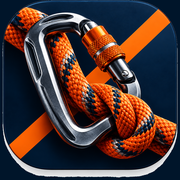
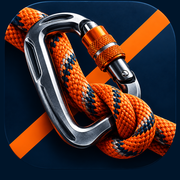
fix: ホーム画面アイコンの白い縁を除去
実機で白い縁が出ていた。原因は素材のドロップシャドウが残っていたこと。

PIL の ImageDraw.floodfill の thresh は「RGB3チャンネルの差の合計」で、
白(255,255,255) と 影(199,200,201) の差は165ある。thresh=60 では影に届かず、
バッジの外周に明るい灰色のリングが残っていた。

検証も誤っていた。「235以上を白」と数えていたため影(199〜233)を拾えず、
白1.7%と報告していたが、実際は外周がほぼ全部明るいままだった。

floodfill をやめ、明るさ min(R,G,B)>90 のマスクを行・列の走査で作って
地色で塗る方式に変更。縁のアンチエイリアスも5px内側まで広げて潰す。
検証は min(R,G,B)>120 を「地色でない明るい画素」として外周4pxで数える。

  素材そのまま 外周の明るい画素 100.00%
  修正後        0.00%

絵そのものには手を加えていない。

diff --git a/tools/build_icons.py b/tools/build_icons.py
@@ -3,15 +3,21 @@
 
    素材は sources/icon/（ChatGPTで作成）。デザインは変更しない。
 
-   ただし素材は「白地の上に角丸バッジ」が焼き込まれている。
-   iOS はホーム画面アイコンに自前の角丸マスクを掛けるため、そのまま使うと
-   マスクの内側に白が残り、白い枠が付いたように見える（実測17.1%）。
-   そこで iOS用（apple-touch-icon）と Android のマスカブル用だけ、
-   原本からバッジ部分を切り出して全面化する。絵そのものには手を加えない。
+   素材は「白地の上に角丸バッジ＋ドロップシャドウ」が焼き込まれている。
+   iOS はホーム画面アイコンに自前の角丸マスクを掛けるので、そのまま使うと
+   バッジの外側（白と影）がマスクの内側に残り、白い縁として見える。
 
-     元のまま            iOSマスク内の白 17.1%
-     バッジを切り出し     → 7.9%
-     外側の白を地色で埋め → 1.9%
+   対策：バッジの外側を地色で塗りつぶし、バッジの外接矩形で切り出して全面化する。
+   絵そのものには手を加えない。
+
+   実装の注意（一度踏んだ）：
+     PIL の ImageDraw.floodfill の thresh は「RGB3チャンネルの差の合計」。
+     白(255,255,255) と 影(199,200,201) の差は合計165ある。
+     thresh=60 では影に届かず、影のリングが残ったまま白い縁になった。
+     そのため floodfill はやめ、明るさのマスクを自分で作って塗る。
+
+     検証も「235以上を白とみなす」では影(199〜233)を数えられない。
+     min(R,G,B) > 120 を「地色でない明るい画素」として数える。
 
    実行： python tools/build_icons.py
 """
@@ -20,7 +26,8 @@ import os
 import shutil
 import sys
 
-from PIL import Image, ImageChops, ImageDraw
+import numpy as np
+from PIL import Image, ImageChops
 
 sys.stdout = io.TextIOWrapper(sys.stdout.buffer, encoding="utf-8")
 
@@ -34,66 +41,94 @@ COPY = ["favicon-16.png", "favicon-32.png", "icon-192.png", "icon-512.png"]
 # 全面化して作るもの（OSが自前でマスクを掛ける用途）
 FULLBLEED = [("apple-touch-icon.png", 180), ("icon-512-maskable.png", 512)]
 
+LIGHT = 90      # min(R,G,B) がこれを超えたら「背景か影」とみなす
+GROW = 5        # 塗る範囲をバッジ側へ広げる画素数（縁のアンチエイリアスを消す）
+
+
+def exterior_mask(arr):
+    """バッジの外側（白＋影）を True にしたマスクを返す。
+
+    バッジは角丸正方形で凸なので、各行・各列を両端から走査して
+    明るい画素が続く区間を外側とみなせば、穴を拾わずに正確に取れる。
+    """
+    light = arr.min(axis=2) > LIGHT
+    h, w = light.shape
+    ext = np.zeros_like(light)
+
+    for y in range(h):
+        row = light[y]
+        i = 0
+        while i < w and row[i]:
+            ext[y, i] = True; i += 1
+        i = w - 1
+        while i >= 0 and row[i]:
+            ext[y, i] = True; i -= 1
+
+    for x in range(w):
+        col = light[:, x]
+        i = 0
+        while i < h and col[i]:
+            ext[i, x] = True; i += 1
+        i = h - 1
+        while i >= 0 and col[i]:
+            ext[i, x] = True; i -= 1
+
+    # 縁のアンチエイリアス（中間色）も食べるよう、内側へ少し広げる
+    for _ in range(GROW):
+        g = ext.copy()
+        g[1:, :] |= ext[:-1, :]
+        g[:-1, :] |= ext[1:, :]
+        g[:, 1:] |= ext[:, :-1]
+        g[:, :-1] |= ext[:, 1:]
+        ext = g
+    return ext
+
 
 def badge_fullbleed(path):
-    """原本から白い余白を取り除き、外周をバッジの地色で埋めた正方形を返す"""
+    """白と影を地色で潰し、バッジの外接矩形で正方形に切り出す"""
     im = Image.open(path).convert("RGB")
+    arr = np.array(im)
 
-    # 白でない領域の外接矩形を取り、正方形に整えて切り出す
-    bg = Image.new("RGB", im.size, (255, 255, 255))
-    diff = ImageChops.difference(im, bg).convert("L").point(lambda v: 255 if v > 12 else 0)
-    x0, y0, x1, y1 = diff.getbbox()
+    # 地色はバッジ左端の内側から拾う
+    bb = ImageChops.difference(im, Image.new("RGB", im.size, (255, 255, 255)))
+    x0, y0, x1, y1 = bb.convert("L").point(lambda v: 255 if v > 12 else 0).getbbox()
+    navy = arr[(y0 + y1) // 2, x0 + int((x1 - x0) * 0.04)].copy()
+
+    arr[exterior_mask(arr)] = navy
+    im = Image.fromarray(arr)
+
     cx, cy = (x0 + x1) // 2, (y0 + y1) // 2
     half = max(x1 - x0, y1 - y0) // 2
-    crop = im.crop((cx - half, cy - half, cx + half, cy + half))
-
-    # 角丸の外に残る白を、バッジの地色で塗りつぶす。
-    # 四隅から流し込むのでバッジの縁で止まり、内側の金属色は残る。
-    s = crop.size[0]
-    navy = crop.getpixel((int(s * 0.06), int(s * 0.5)))
-    for pt in [(0, 0), (s - 1, 0), (0, s - 1), (s - 1, s - 1)]:
-        ImageDraw.floodfill(crop, pt, navy, thresh=60)
-    return crop
+    return im.crop((cx - half, cy - half, cx + half, cy + half)), tuple(int(v) for v in navy)
 
 
-def white_ratio_under_ios_mask(im):
-    """iOSの角丸マスク（22.37%）を掛けたとき、内側に残る白の割合"""
-    s = im.size[0]
-    mask = Image.new("L", (s, s), 0)
-    ImageDraw.Draw(mask).rounded_rectangle([0, 0, s - 1, s - 1],
-                                           radius=int(s * 0.2237), fill=255)
-    white = tot = 0
-    step = max(1, s // 200)
-    for y in range(0, s, step):
-        for x in range(0, s, step):
-            if mask.getpixel((x, y)) == 0:
-                continue
-            tot += 1
-            p = im.getpixel((x, y))
-            if p[0] > 235 and p[1] > 235 and p[2] > 235:
-                white += 1
-    return 100.0 * white / tot
+def edge_report(im, px=4):
+    """外周px幅のリングに、地色でない明るい画素が何%あるか"""
+    a = np.array(im.convert("RGB")).min(axis=2)
+    ring = np.zeros(a.shape, bool)
+    ring[:px, :] = ring[-px:, :] = ring[:, :px] = ring[:, -px:] = True
+    return 100.0 * float((a[ring] > 120).sum()) / int(ring.sum())
 
 
 def main():
     os.makedirs(OUT, exist_ok=True)
 
     for name in COPY:
-        src = os.path.join(SRC, name)
-        shutil.copyfile(src, os.path.join(OUT, name))
-        im = Image.open(src)
+        shutil.copyfile(os.path.join(SRC, name), os.path.join(OUT, name))
+        im = Image.open(os.path.join(SRC, name))
         print("  複製  %-24s %dx%d" % (name, im.size[0], im.size[1]))
 
-    base = badge_fullbleed(os.path.join(SRC, "icon-original.png"))
+    base, navy = badge_fullbleed(os.path.join(SRC, "icon-original.png"))
+    print("\n  バッジ地色 RGB%s / 全面化後 %dx%d" % (navy, base.size[0], base.size[1]))
+
     for name, size in FULLBLEED:
         out = base.resize((size, size), Image.LANCZOS)
         out.save(os.path.join(OUT, name), optimize=True)
-        print("  全面化 %-24s %dx%d  iOSマスク内の白 %.1f%%"
-              % (name, size, size, white_ratio_under_ios_mask(out)))
+        print("  全面化 %-24s %dx%d  外周の明るい画素 %.2f%%"
+              % (name, size, size, edge_report(out)))
 
-    before = white_ratio_under_ios_mask(
-        Image.open(os.path.join(SRC, "apple-touch-icon.png")).convert("RGB"))
-    print("\n  （素材そのままだと %.1f%% が白だった）" % before)
+    before = Image.open(os.path.join(SRC, "apple-touch-icon.png"))
+    print("\n  （素材そのままだと外周の明るい画素 %.2f%%）" % edge_report(before))
 
 
 if __name__ == "__main__":
